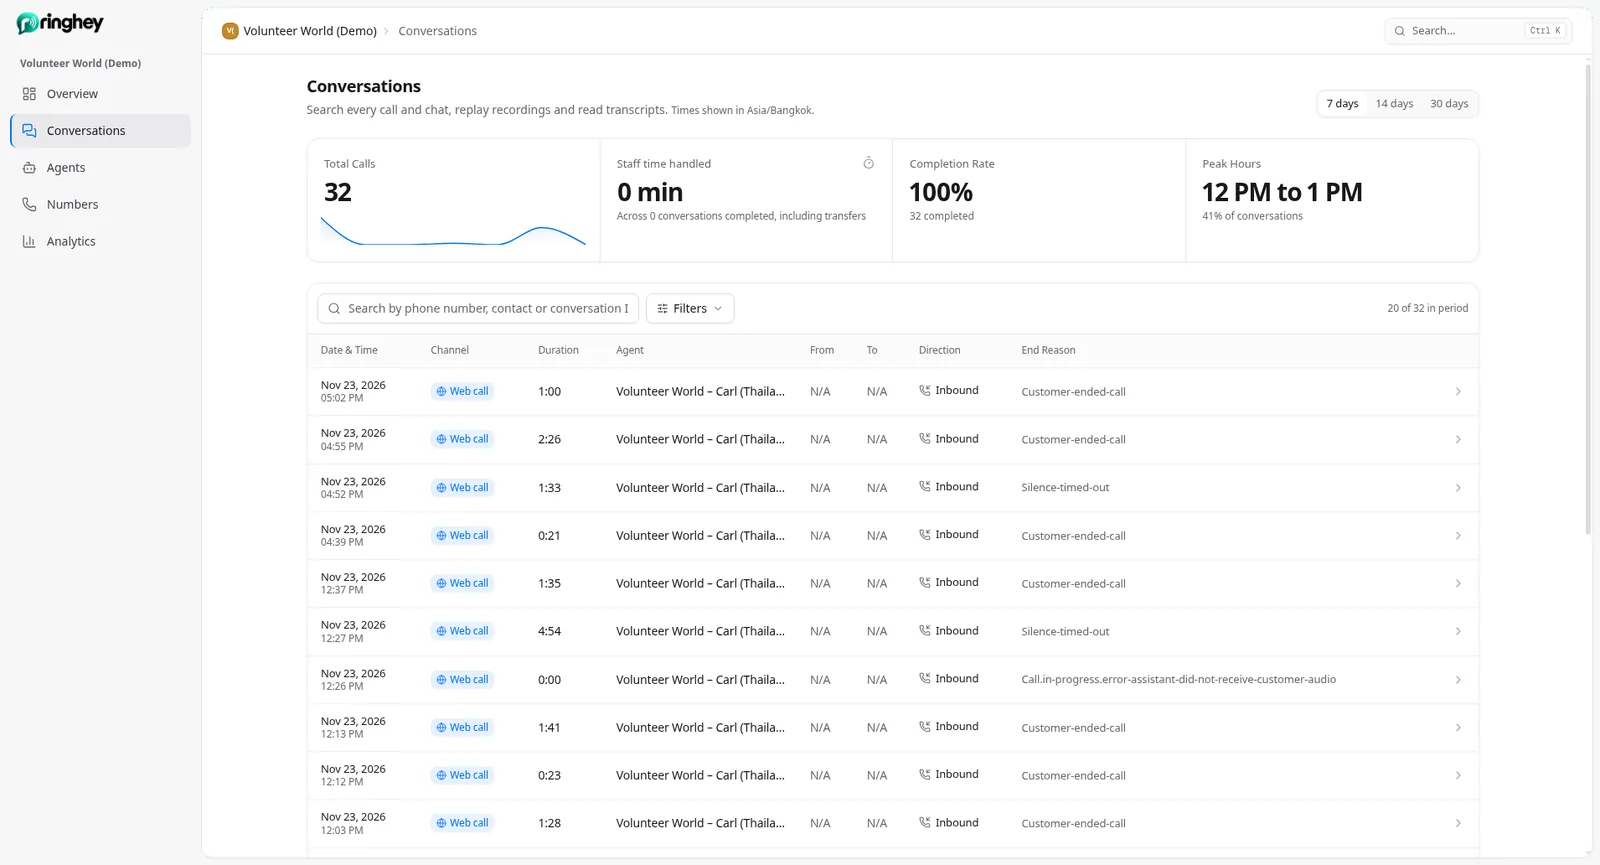
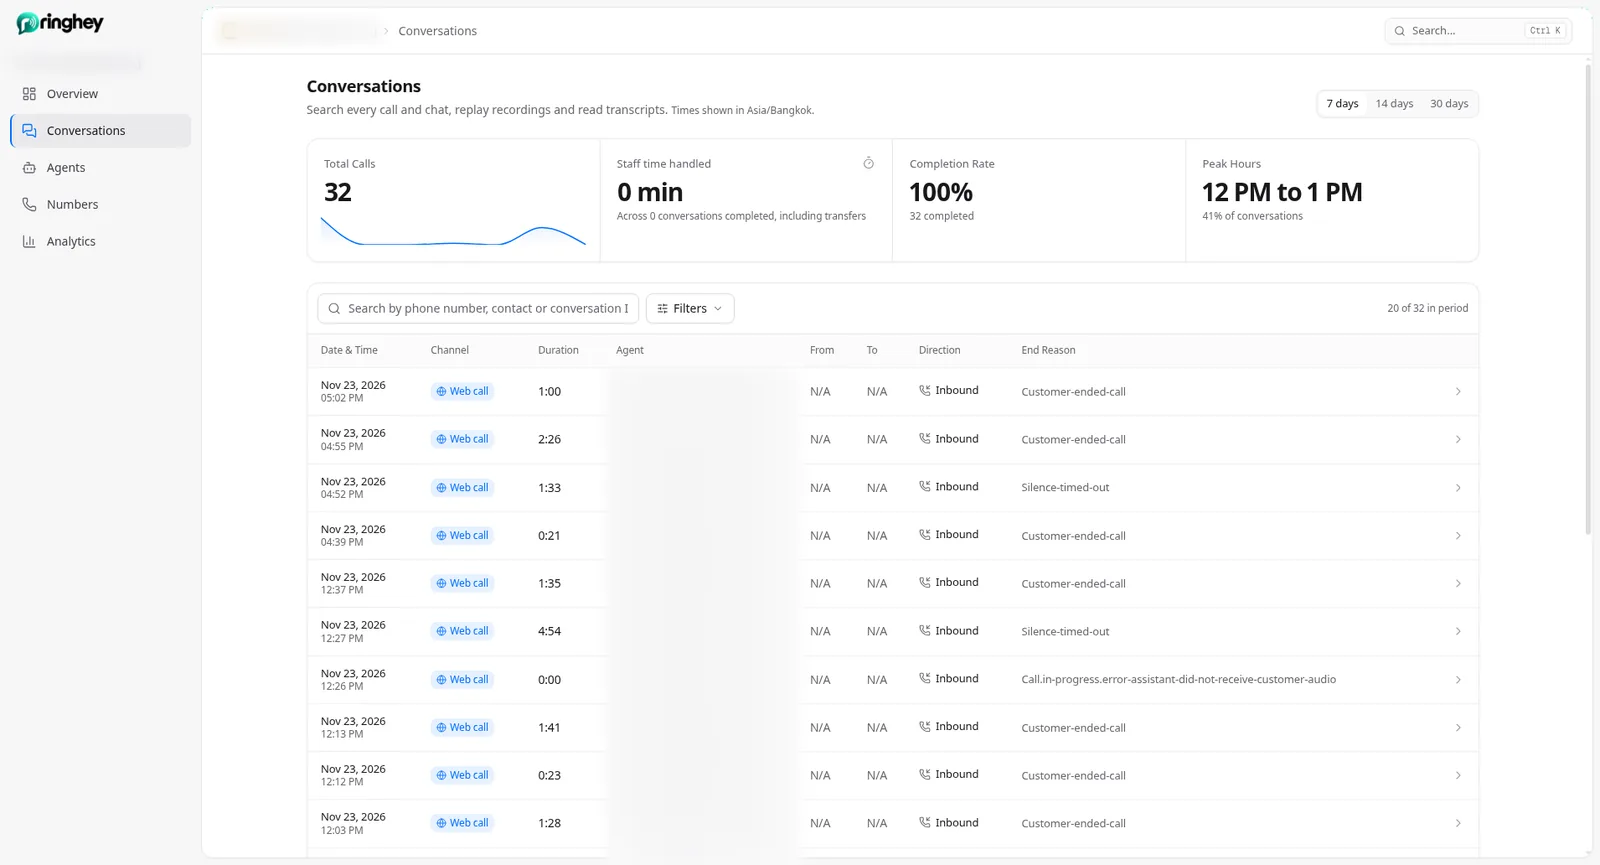
Blur Volunteer World identifiers in portal screenshots
Strong gaussian blur on workspace names, logos, agent names,
transcript and summary text. Regenerated 1600w and 900w WebPs
and cache-busted image and asset URLs.

diff --git a/portal/index.html b/portal/index.html
@@ -17,7 +17,7 @@
 <link rel="preconnect" href="https://fonts.googleapis.com">
 <link rel="preconnect" href="https://fonts.gstatic.com" crossorigin>
 <link rel="stylesheet" href="https://fonts.googleapis.com/css2?family=Instrument+Sans:ital,wght@0,400..700;1,400..700&display=swap">
-<link rel="stylesheet" href="/styles.css?v=lightbox1">
+<link rel="stylesheet" href="/styles.css?v=vwblur1">
 </head>
 <body>
 <a class="skip" href="#main">Skip to content</a>
@@ -117,11 +117,11 @@
         </ul>
       </div>
       <figure class="browser-frame">
-        <button type="button" class="lightbox-trigger" data-full="/assets/portal/overview-1600.webp" aria-haspopup="dialog" aria-controls="lightbox" aria-label="View larger: Client portal overview showing calls and chats, a daily conversations chart, completed rate, after-hours conversations, average length, staff time, outcomes and a heatmap of when customers reach out">
+        <button type="button" class="lightbox-trigger" data-full="/assets/portal/overview-1600.webp?v=vwblur1" aria-haspopup="dialog" aria-controls="lightbox" aria-label="View larger: Client portal overview showing calls and chats, a daily conversations chart, completed rate, after-hours conversations, average length, staff time, outcomes and a heatmap of when customers reach out">
         <div class="browser-chrome" aria-hidden="true"><span></span><span></span><span></span></div>
         <picture>
-          <source type="image/webp" srcset="/assets/portal/overview-900.webp 900w, /assets/portal/overview-1600.webp 1600w" sizes="(min-width: 58rem) 54vw, 100vw">
-          <img src="/assets/portal/overview-1600.webp" width="1600" height="865" alt="Client portal overview showing calls and chats, a daily conversations chart, completed rate, after-hours conversations, average length, staff time, outcomes and a heatmap of when customers reach out" loading="lazy" decoding="async">
+          <source type="image/webp" srcset="/assets/portal/overview-900.webp?v=vwblur1 900w, /assets/portal/overview-1600.webp?v=vwblur1 1600w" sizes="(min-width: 58rem) 54vw, 100vw">
+          <img src="/assets/portal/overview-1600.webp?v=vwblur1" width="1600" height="865" alt="Client portal overview showing calls and chats, a daily conversations chart, completed rate, after-hours conversations, average length, staff time, outcomes and a heatmap of when customers reach out" loading="lazy" decoding="async">
         </picture>
         </button>
       </figure>
@@ -137,11 +137,11 @@
         </ul>
       </div>
       <figure class="browser-frame">
-        <button type="button" class="lightbox-trigger" data-full="/assets/portal/conversations-1600.webp" aria-haspopup="dialog" aria-controls="lightbox" aria-label="View larger: Client portal conversations list with totals, search and filters, and columns for date, channel, duration, agent, from, to, direction and end reason">
+        <button type="button" class="lightbox-trigger" data-full="/assets/portal/conversations-1600.webp?v=vwblur1" aria-haspopup="dialog" aria-controls="lightbox" aria-label="View larger: Client portal conversations list with totals, search and filters, and columns for date, channel, duration, agent, from, to, direction and end reason">
         <div class="browser-chrome" aria-hidden="true"><span></span><span></span><span></span></div>
         <picture>
-          <source type="image/webp" srcset="/assets/portal/conversations-900.webp 900w, /assets/portal/conversations-1600.webp 1600w" sizes="(min-width: 58rem) 54vw, 100vw">
-          <img src="/assets/portal/conversations-1600.webp" width="1600" height="865" alt="Client portal conversations list with totals, search and filters, and columns for date, channel, duration, agent, from, to, direction and end reason" loading="lazy" decoding="async">
+          <source type="image/webp" srcset="/assets/portal/conversations-900.webp?v=vwblur1 900w, /assets/portal/conversations-1600.webp?v=vwblur1 1600w" sizes="(min-width: 58rem) 54vw, 100vw">
+          <img src="/assets/portal/conversations-1600.webp?v=vwblur1" width="1600" height="865" alt="Client portal conversations list with totals, search and filters, and columns for date, channel, duration, agent, from, to, direction and end reason" loading="lazy" decoding="async">
         </picture>
         </button>
       </figure>
@@ -157,11 +157,11 @@
         </ul>
       </div>
       <figure class="browser-frame">
-        <button type="button" class="lightbox-trigger" data-full="/assets/portal/agents-1600.webp" aria-haspopup="dialog" aria-controls="lightbox" aria-label="View larger: Client portal agents page showing per-agent calls, completion rate, average duration, staff time, after-hours volume and charts">
+        <button type="button" class="lightbox-trigger" data-full="/assets/portal/agents-1600.webp?v=vwblur1" aria-haspopup="dialog" aria-controls="lightbox" aria-label="View larger: Client portal agents page showing per-agent calls, completion rate, average duration, staff time, after-hours volume and charts">
         <div class="browser-chrome" aria-hidden="true"><span></span><span></span><span></span></div>
         <picture>
-          <source type="image/webp" srcset="/assets/portal/agents-900.webp 900w, /assets/portal/agents-1600.webp 1600w" sizes="(min-width: 58rem) 54vw, 100vw">
-          <img src="/assets/portal/agents-1600.webp" width="1600" height="865" alt="Client portal agents page showing per-agent calls, completion rate, average duration, staff time, after-hours volume and charts" loading="lazy" decoding="async">
+          <source type="image/webp" srcset="/assets/portal/agents-900.webp?v=vwblur1 900w, /assets/portal/agents-1600.webp?v=vwblur1 1600w" sizes="(min-width: 58rem) 54vw, 100vw">
+          <img src="/assets/portal/agents-1600.webp?v=vwblur1" width="1600" height="865" alt="Client portal agents page showing per-agent calls, completion rate, average duration, staff time, after-hours volume and charts" loading="lazy" decoding="async">
         </picture>
         </button>
       </figure>
@@ -177,11 +177,11 @@
         </ul>
       </div>
       <figure class="browser-frame">
-        <button type="button" class="lightbox-trigger" data-full="/assets/portal/analytics-1600.webp" aria-haspopup="dialog" aria-controls="lightbox" aria-label="View larger: Client portal analytics with channel filter, conversations by channel, sentiment, call volume, outcomes and peak times">
+        <button type="button" class="lightbox-trigger" data-full="/assets/portal/analytics-1600.webp?v=vwblur1" aria-haspopup="dialog" aria-controls="lightbox" aria-label="View larger: Client portal analytics with channel filter, conversations by channel, sentiment, call volume, outcomes and peak times">
         <div class="browser-chrome" aria-hidden="true"><span></span><span></span><span></span></div>
         <picture>
-          <source type="image/webp" srcset="/assets/portal/analytics-900.webp 900w, /assets/portal/analytics-1600.webp 1600w" sizes="(min-width: 58rem) 54vw, 100vw">
-          <img src="/assets/portal/analytics-1600.webp" width="1600" height="865" alt="Client portal analytics with channel filter, conversations by channel, sentiment, call volume, outcomes and peak times" loading="lazy" decoding="async">
+          <source type="image/webp" srcset="/assets/portal/analytics-900.webp?v=vwblur1 900w, /assets/portal/analytics-1600.webp?v=vwblur1 1600w" sizes="(min-width: 58rem) 54vw, 100vw">
+          <img src="/assets/portal/analytics-1600.webp?v=vwblur1" width="1600" height="865" alt="Client portal analytics with channel filter, conversations by channel, sentiment, call volume, outcomes and peak times" loading="lazy" decoding="async">
         </picture>
         </button>
       </figure>
@@ -197,11 +197,11 @@
         </ul>
       </div>
       <figure class="browser-frame">
-        <button type="button" class="lightbox-trigger" data-full="/assets/portal/call-detail-1600.webp" aria-haspopup="dialog" aria-controls="lightbox" aria-label="View larger: Conversation detail with a recording player, searchable transcript, AI summary, knowledge-base actions, call analysis, response time and conversation flow">
+        <button type="button" class="lightbox-trigger" data-full="/assets/portal/call-detail-1600.webp?v=vwblur1" aria-haspopup="dialog" aria-controls="lightbox" aria-label="View larger: Conversation detail with a recording player, searchable transcript, AI summary, knowledge-base actions, call analysis, response time and conversation flow">
         <div class="browser-chrome" aria-hidden="true"><span></span><span></span><span></span></div>
         <picture>
-          <source type="image/webp" srcset="/assets/portal/call-detail-900.webp 900w, /assets/portal/call-detail-1600.webp 1600w" sizes="(min-width: 58rem) 54vw, 100vw">
-          <img src="/assets/portal/call-detail-1600.webp" width="1600" height="898" alt="Conversation detail with a recording player, searchable transcript, AI summary, knowledge-base actions, call analysis, response time and conversation flow" loading="lazy" decoding="async">
+          <source type="image/webp" srcset="/assets/portal/call-detail-900.webp?v=vwblur1 900w, /assets/portal/call-detail-1600.webp?v=vwblur1 1600w" sizes="(min-width: 58rem) 54vw, 100vw">
+          <img src="/assets/portal/call-detail-1600.webp?v=vwblur1" width="1600" height="898" alt="Conversation detail with a recording player, searchable transcript, AI summary, knowledge-base actions, call analysis, response time and conversation flow" loading="lazy" decoding="async">
         </picture>
         </button>
       </figure>
@@ -475,7 +475,7 @@
     }
   });
 </script>
-<script src="/lightbox.js?v=lightbox1" defer></script>
-<script type="module" src="/agent.js?v=lightbox1"></script>
+<script src="/lightbox.js?v=vwblur1" defer></script>
+<script type="module" src="/agent.js?v=vwblur1"></script>
 </body>
 </html>

diff --git a/index.html b/index.html
@@ -17,7 +17,7 @@
 <link rel="preconnect" href="https://fonts.googleapis.com">
 <link rel="preconnect" href="https://fonts.gstatic.com" crossorigin>
 <link rel="stylesheet" href="https://fonts.googleapis.com/css2?family=Instrument+Sans:ital,wght@0,400..700;1,400..700&display=swap">
-<link rel="stylesheet" href="styles.css?v=lightbox1">
+<link rel="stylesheet" href="styles.css?v=vwblur1">
 </head>
 <body>
 <a class="skip" href="#main">Skip to content</a>
@@ -617,7 +617,7 @@
   }
 </script>
 
-<script src="/lightbox.js?v=lightbox1" defer></script>
-<script type="module" src="agent.js?v=lightbox1"></script>
+<script src="/lightbox.js?v=vwblur1" defer></script>
+<script type="module" src="agent.js?v=vwblur1"></script>
 </body>
 </html>
